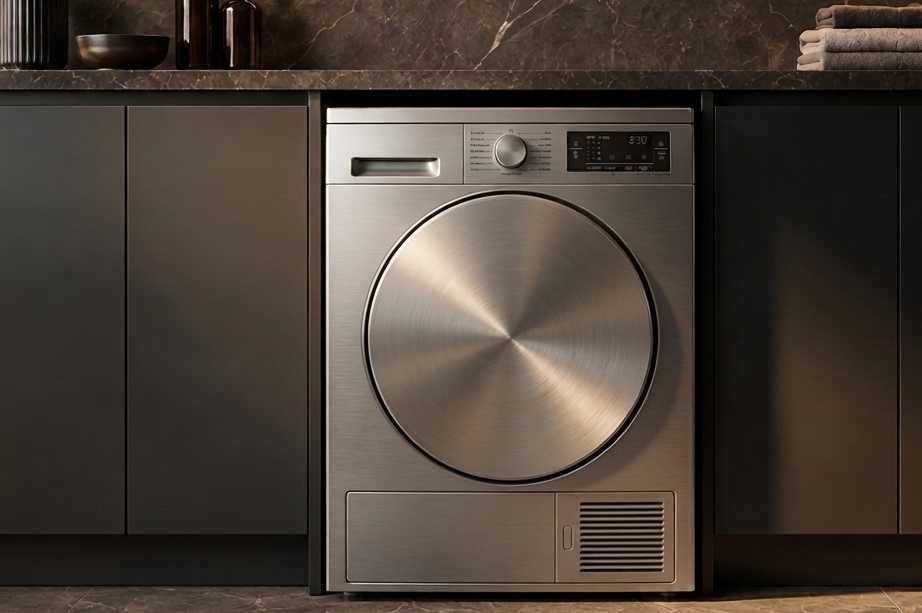
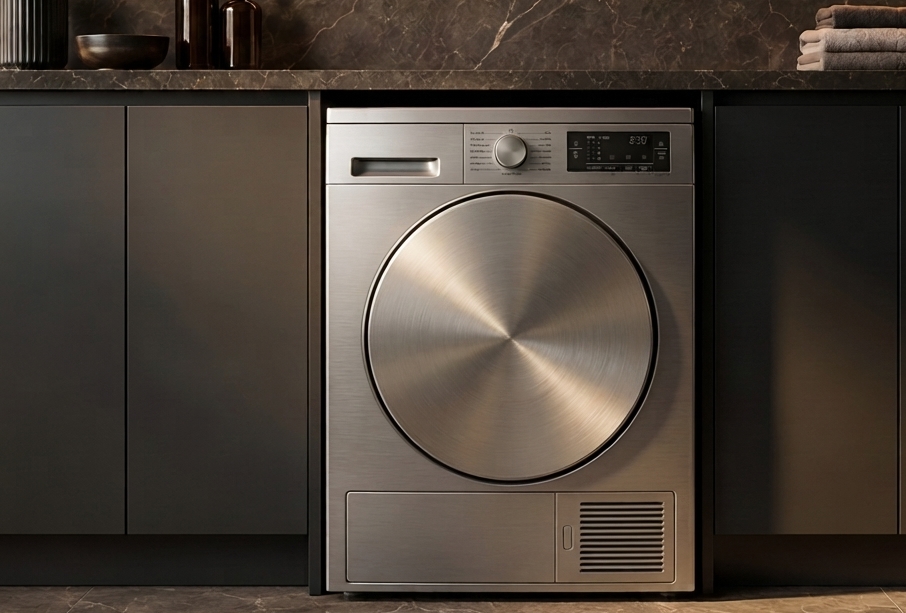
content updated

diff --git a/src/components/header/Navbar.jsx b/src/components/header/Navbar.jsx
@@ -22,7 +22,7 @@ const Navbar = ({ orientation = "horizontal", onLinkClick }) => {
 
   if (isVertical) {
     return (
-      <nav className="flex flex-col gap-1">
+      <nav className="flex flex-col gap-1 h-full">
         {navLinks.map((link) => {
           const isOpen = openMenu === link.label;
           return (
@@ -65,33 +65,38 @@ const Navbar = ({ orientation = "horizontal", onLinkClick }) => {
             </div>
           );
         })}
+
+        {/* Deals link highlighted in Red */}
         <NavLink
           to={dealLink.href}
           onClick={onLinkClick}
-          className="rounded-lg px-3 py-3 text-base font-semibold text-navy-900 transition-colors hover:text-brand-blue-dark"
+          className="rounded-lg px-3 py-3 text-base font-bold text-red-600 transition-colors hover:text-red-700 hover:bg-red-50"
         >
           {dealLink.label}
         </NavLink>
-        {navPillLinks.map((link) => (
-          <NavLink
-            key={link.label}
-            to={link.href}
-            onClick={onLinkClick}
-            className={({ isActive }) =>
-              `inline-flex items-center gap-2 rounded-lg px-3 py-3 text-sm font-semibold transition-colors ${
-                link.filled
-                  ? "bg-brand-blue text-white hover:bg-brand-blue-dark"
-                  : isActive
-                    ? "bg-navy-900/10 text-navy-900"
-                    : "text-navy-900/80 hover:bg-navy-900/5"
-              }`
-            }
-          >
-            
-            {link.label === "BOOK A REPAIR" && <FaScrewdriverWrench aria-hidden="true" />}
-            {link.label}
-          </NavLink>
-        ))}
+
+        {/* Separated Book a Repair section */}
+        <div className="mt-6 pt-4 border-t border-navy-900/10 flex flex-col gap-2">
+          {navPillLinks.map((link) => (
+            <NavLink
+              key={link.label}
+              to={link.href}
+              onClick={onLinkClick}
+              className={({ isActive }) =>
+                `inline-flex items-center gap-2 rounded-lg px-3 py-3 text-sm font-semibold transition-colors ${
+                  link.filled
+                    ? "bg-brand-blue text-white hover:bg-brand-blue-dark shadow-sm"
+                    : isActive
+                      ? "bg-navy-900/10 text-navy-900"
+                      : "text-navy-900/80 hover:bg-navy-900/5"
+                }`
+              }
+            >
+              {link.label === "BOOK A REPAIR" && <FaScrewdriverWrench aria-hidden="true" />}
+              {link.label}
+            </NavLink>
+          ))}
+        </div>
       </nav>
     );
   }
@@ -103,48 +108,51 @@ const Navbar = ({ orientation = "horizontal", onLinkClick }) => {
           const isOpen = openMenu === link.label;
 
           return (
-          <div
-            key={link.label}
-            className="relative py-3"
-            onMouseEnter={() => setOpenMenu(link.label)}
-            onMouseLeave={() => setOpenMenu(null)}
-            onFocus={() => setOpenMenu(link.label)}
-          >
-            {renderCategoryLink(link, "text-base font-medium transition-colors")}
+            <div
+              key={link.label}
+              className="relative py-3"
+              onMouseEnter={() => setOpenMenu(link.label)}
+              onMouseLeave={() => setOpenMenu(null)}
+              onFocus={() => setOpenMenu(link.label)}
+            >
+              {renderCategoryLink(link, "text-base font-medium transition-colors")}
 
-            {link.children && link.children.length > 0 && (
-              <div
-                className={`absolute left-0 top-full z-50 w-64 rounded border border-navy-900/10 bg-white p-2 shadow-xl transition-all ${
-                  isOpen
-                    ? "visible translate-y-0 opacity-100"
-                    : "invisible translate-y-2 opacity-0"
-                }`}
-              >
-                {link.children.map((child) => (
-                  <NavLink
-                    key={child.slug}
-                    to={child.href}
-                    onClick={onLinkClick}
-                    className="block rounded px-3 py-2.5 text-sm text-navy-900/75 transition-colors hover:bg-brand-blue/10 hover:text-brand-blue"
-                  >
-                    {child.label}
-                  </NavLink>
-                ))}
-              </div>
-            )}
-          </div>
+              {link.children && link.children.length > 0 && (
+                <div
+                  className={`absolute left-0 top-full z-50 w-64 rounded border border-navy-900/10 bg-white p-2 shadow-xl transition-all ${
+                    isOpen
+                      ? "visible translate-y-0 opacity-100"
+                      : "invisible translate-y-2 opacity-0"
+                  }`}
+                >
+                  {link.children.map((child) => (
+                    <NavLink
+                      key={child.slug}
+                      to={child.href}
+                      onClick={onLinkClick}
+                      className="block rounded px-3 py-2.5 text-sm text-navy-900/75 transition-colors hover:bg-brand-blue/10 hover:text-brand-blue"
+                    >
+                      {child.label}
+                    </NavLink>
+                  ))}
+                </div>
+              )}
+            </div>
           );
         })}
-       <NavLink
+
+        {/* Red Deals Badge on Desktop */}
+        <NavLink
           to={dealLink.href}
           onClick={onLinkClick}
-          className="inline-flex items-center justify-center rounded-full bg-black px-3 py-1 text-base font-semibold text-white transition-colors hover:bg-navy-900 sm:px-3 sm:py-1 sm:text-base"
+          className="inline-flex items-center justify-center rounded-full bg-red-600 px-3.5 py-1 text-base font-semibold text-white transition-colors hover:bg-red-700"
         >
           {dealLink.label}
         </NavLink>
       </div>
 
-      <div className="flex items-center gap-2.5">
+      {/* Added ml-6 spacing divider to isolate repair pill */}
+      <div className="flex items-center gap-2.5 ml-6 pl-6 border-l border-navy-900/10">
         {navPillLinks.map((link) => (
           <NavLink
             key={link.label}

diff --git a/src/sections/KitchenInspiration.jsx b/src/sections/KitchenInspiration.jsx
@@ -3,11 +3,16 @@ import { Link } from "react-router-dom";
 import Container from "../components/common/Container";
 import Eyebrow from "../components/common/Eyebrow";
 import InspirationTile from "../components/banner/InspirationTile";
-// import ceramicHobsImg from "../assets/inspiration/ceramic-hobs.png";
-// import kitchenImg from "../assets/inspiration/kitchen.png";
 import washingMachineImg from "../assets/inspiration/washing-machine.png";
 import washerDryer from "../assets/inspiration/washer-dryer.png";
 import tumbleDryer from "../assets/inspiration/tumble-dryer.png";
+
+import fridgeFreezer from "../assets/inspiration/fridge-freezer.png";
+import fridge from "../assets/inspiration/fridge.png";
+import freezer from "../assets/inspiration/freezer.png";
+import chestFreezer from "../assets/inspiration/chest-freezer.png";
+
+
 const KitchenInspiration = () => {
   return (
     <section className="py-12 sm:py-16">
@@ -61,6 +66,69 @@ const KitchenInspiration = () => {
           />
         </div>
       </div>
+
+      <div>
+        <div className="mt-[50px] mb-10 flex flex-col gap-5 lg:flex-row lg:items-center lg:justify-between w-full lg:mb-14">
+          <p className="max-w-[600px] text-sm text-navy-900/60 sm:text-base md:text-[17px] leading-relaxed">
+            Spacious <span className="font-bold">fridge freezers, fridges, freezers, and chest freezers</span> with smart cooling, energy efficiency, and precise temperature control to keep food fresher, longer
+          </p>
+          
+          <Link to="/refrigerator" className="shrink-0 mt-2 lg:mt-0">
+            <button
+              type="button"
+              className="inline-flex items-center gap-2 rounded-full border border-navy-900/15 px-5 py-2.5 text-sm font-medium text-navy-900 transition-colors hover:border-brand-blue hover:text-brand-blue"
+            >
+              Explore Refridgeration
+              <span className="flex h-6 w-6 items-center justify-center rounded-full bg-brand-blue text-white">
+                <FiArrowRight size={14} />
+              </span>
+            </button>
+          </Link>
+        </div>
+
+        <div className="flex flex-col gap-4 w-full"> 
+          
+            <div className="grid grid-cols-1 gap-4 lg:grid-cols-[1.6fr_1fr]">        
+              <InspirationTile
+                image={fridgeFreezer}
+                label="Fridge Freezers"
+                slug="fridge-freezers"
+                className="h-full min-h-[240px] lg:min-h-[300px]"
+                imgClassName="h-full w-full object-cover object-center"
+              />
+
+              <InspirationTile
+                image={chestFreezer}
+                label="Chest Freezers"
+                slug="chest-freezers"
+                className="h-full min-h-[250px] lg:min-h-[380px]"
+                imgClassName="h-full w-full object-cover object-center"
+              />
+            </div>
+
+
+            <div className="grid grid-cols-2 gap-4">
+              <InspirationTile
+                image={fridge}
+                label="Fridges"
+                slug="fridges"
+                className="h-[300px] sm:h-[390px] 2xl:h-[480px]"
+                imgClassName="h-full w-full object-cover object-top"
+              />
+
+              <InspirationTile
+                image={freezer}
+                label="Freezers"
+                slug="freezers"
+                
+                className="h-[300px] sm:h-[390px] 2xl:h-[480px]"
+                imgClassName="h-full w-full object-cover object-top"
+              />
+            </div>
+          </div>
+      </div>
+
+
       </Container>
     </section>
   );

diff --git a/src/data/features.js b/src/data/features.js
@@ -1,26 +1,26 @@
 export const features = [
   {
     id: "store",
-    title: " 20+ Years, A Real London Store",
+    title: " A Real London Store",
     description:
-      "Over two decades of trading from a physical shop, with our own vans and in-house engineers — not a faceless online reseller.",
+      "Not just a website. Visit us, look at the products physically, and deal with a real person who’s there for any questions or issues down the line.",
   },
   {
     id: "delivery",
     title: "Delivered & Installed by Our Own Engineers",
     description:
-      "No handing you off to a courier. Our trained engineers deliver, install, and set up your appliance properly.",
+      "No handing you off to a courier. Our own team delivers, installs, and sets everything up properly.",
   },
  {
     id: "repair",
     title: "Sales, Repairs & Full Warranty",
     description:
-      "Sales and repairs under one roof. Every product carries the <strong>full manufacturer’s warranty</strong>, and if an installation ever faults, our engineers come out to fix or replace it.",
+      "Sales and repairs under one roof. Every product comes with the full manufacturer’s warranty — and if an installation ever faults, we come out to fix or replace it.",
   },
   {
     id: "checkout",
     title: "Secure Checkout",
     description:
-      "Your payments are protected with trusted encryption and secure gateways for complete peace of mind.",
+      "Your payments are protected with trusted encryption and secure gateways, so you can shop with complete peace of mind.",
   },
 ];

diff --git a/src/sections/BrandSection.jsx b/src/sections/BrandSection.jsx
@@ -7,11 +7,17 @@ const BrandSection = () => {
   return (
     <section className="py-12 sm:py-16">
       <Container>
-        <div className="mb-10 text-center">
-          <Eyebrow>Welcome to Our store</Eyebrow>
-         <h2 className="mb-8 mt-8 text-center font-display text-3xl font-semibold text-navy-950 sm:text-4xl md:text-5xl lg:text-[44px]">   
-           Our premium brands
+        <div className="mb-10 text-center">         
+         <h2 className="mb-8 mt-8 text-center font-display text-sm font-semibold text-navy-950 sm:text-xl md:text-2xl lg:text-[20px]">   
+          Welcome to Our store
           </h2>
+
+           <div className="inline-block rounded-full bg-[linear-gradient(90deg,#1D60FF_0%,#F6F9FF_100%)] p-[2px]">
+            <span className="block rounded-full bg-[linear-gradient(90deg,#D9E4FF_0%,rgba(255,255,255,0)_100%)] px-4 py-1.5 text-2xl  sm:text-3xl md:text-4xl lg:text-[34px] font-semibold  tracking-wide text-brand-blue md:text-[16px]">
+                Our premium brands
+              </span>
+            </div>
+         
         </div>
 
         <div className="flex flex-wrap items-center justify-center gap-x-10 gap-y-6 sm:gap-x-14">

diff --git a/src/data/categories.js b/src/data/categories.js
@@ -4,6 +4,7 @@ import washerDryer from "../assets/categories/washer-dryers.png"
 import fridgeFreezer from "../assets/categories/fridge-freezer.png";
 import fridge from "../assets/categories/fridges.png";
 import freezer from "../assets/categories/freezer.png";
+import chestFreezer from "../assets/categories/chest-freezer.png";
 import dishwasher from "../assets/categories/dishwasher.png";
 import cooker from "../assets/categories/cooker.png";
 import oven from "../assets/categories/oven.png";
@@ -20,6 +21,7 @@ export const categories = [
   { id: "fridge-freezers", name: "Fridge Freezers", thumbnail: fridgeFreezer, href: "/refrigerator" },
   { id: "fridge", name: "Fridge", thumbnail: fridge, href: "/refrigerator" },
   { id: "freezers", name: "Freezers ", thumbnail: freezer, href: "/refrigerator" },
+  { id: "chest-freezers", name: "Chest Freezers ", thumbnail: chestFreezer , href: "/refrigerator" },
   { id: "dishwasher", name: "Dishwasher", thumbnail: dishwasher, href: "/dishwashers" },
   { id: "cookers", name: "Cookers", thumbnail: cooker, href: "/cooking" },
   { id: "ovens", name: "Ovens", thumbnail: oven, href: "/cooking" },

diff --git a/src/pages/Home.jsx b/src/pages/Home.jsx
@@ -2,7 +2,7 @@ import Hero from "../sections/Hero";
 import CategorySection from "../sections/CategorySection";
 import FeaturedProducts from "../sections/FeaturedProducts";
 // import OfferBanner from "../sections/OfferBanner";
-import FridgeFreezerSection from "../sections/FridgeFreezerSection";
+// import FridgeFreezerSection from "../sections/FridgeFreezerSection";
 import KitchenInspiration from "../sections/KitchenInspiration";
 import BrandSection from "../sections/BrandSection";
 import FeaturesSection from "../sections/FeaturesSection";
@@ -14,10 +14,11 @@ const Home = () => {
       <CategorySection />
       <FeaturedProducts />
       {/* <OfferBanner /> */}
-      <FridgeFreezerSection />
+      {/* <FridgeFreezerSection /> */}
       <KitchenInspiration />
-      <BrandSection />
-      <FeaturesSection />     
+      
+      <FeaturesSection />  
+      <BrandSection />   
     </>
   );
 };

diff --git a/src/sections/FeaturedProducts.jsx b/src/sections/FeaturedProducts.jsx
@@ -11,7 +11,7 @@ import ProductCard from "../components/product/ProductCard";
 import SliderArrow from "../components/common/SliderArrow";
 import { products } from "../data/products";
 
-const FILTER_TABS = ["Best Sellers", "New Arrivals", "Trendings"];
+const FILTER_TABS = ["Best Sellers", "New Arrivals"];
 
 const FeaturedProducts = () => {
   const prevRef = useRef(null);

diff --git a/src/data/footerLinks.js b/src/data/footerLinks.js
@@ -7,7 +7,7 @@ export const quickLinks = [
 ];
 
 export const shopCategories = [
-  { label: "Refrigerators", href: "/refrigerator" },
+  { label: "Refrigerations", href: "/refrigerator" },
   { label: "Washing Machines", href: "/laundry" },
   { label: "Ovens & Hobs", href: "/cooking" },
   { label: "Dishwashers", href: "/dishwashers" },

diff --git a/src/data/categoryPages/refrigerator.js b/src/data/categoryPages/refrigerator.js
@@ -3,7 +3,7 @@ import { products } from "../products";
 
 export const refrigeratorPage = {
   hero: {
-    breadcrumb: [{ label: "Home", href: "/" }, { label: "Refrigerators" }],
+    breadcrumb: [{ label: "Home", href: "/" }, { label: "Refrigerations" }],
     title: "Refrigerators",
     subtitle: {
       before: "Space-saving ",

diff --git a/src/sections/CategorySection.jsx b/src/sections/CategorySection.jsx
@@ -48,7 +48,7 @@ const CategorySection = () => {
             loop={true}
             loopAddBlankSlides={true}
             autoplay={{
-              delay: 3000,
+              delay: 5000,
               disableOnInteraction: false,
             }}
             spaceBetween={16}

diff --git a/src/components/product/ProductDescriptionSection.jsx b/src/components/product/ProductDescriptionSection.jsx
@@ -1,6 +1,6 @@
 const ProductDescriptionSection = ({ product }) => {
   const rows = [
-    ["Category", "Refrigerators"],
+    ["Category", "Refrigerations"],
     ["Brand", "ALFA APPLIANCES"],
     ["Color", product.finish],
     ["Material", "Premium Grade Stainless Steel"],

diff --git a/src/components/product/ProductInfoContent.jsx b/src/components/product/ProductInfoContent.jsx
@@ -1,6 +1,6 @@
 const ProductInfoContent = ({ product }) => {
   const rows = [
-    ["Category", "Refrigerators"],
+    ["Category", "Refrigerations"],
     ["Brand", "ALFA APPLIANCES"],
     ["Color", product.finish],
     ["Material", "Premium Grade Stainless Steel"],
